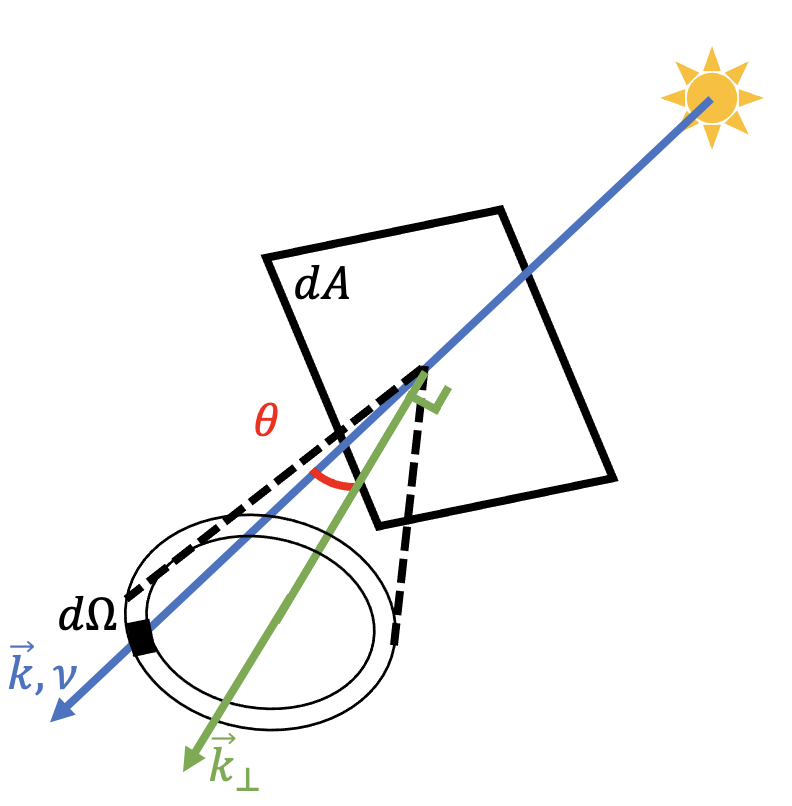
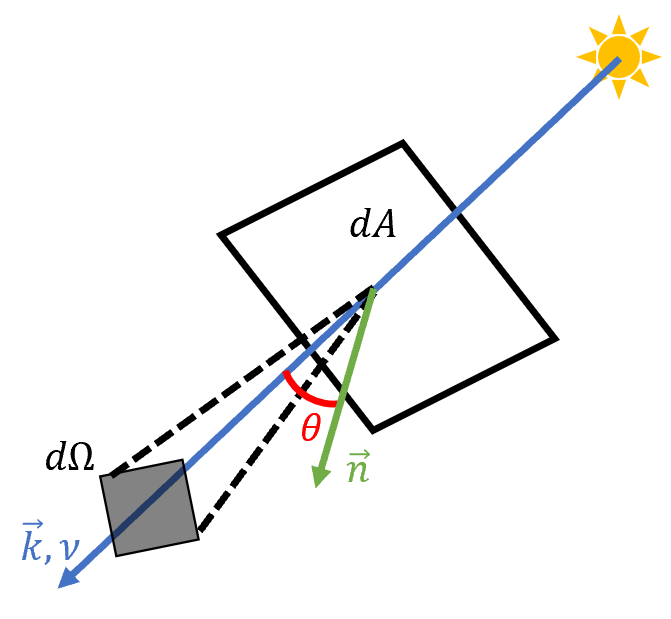
new lesson on radiation

diff --git a/assets/css/style.scss b/assets/css/style.scss
@@ -1,0 +1,9 @@
+---
+---
+
+@import "{{ site.theme }}";
+body {
+  font: 16px -apple-system, BlinkMacSystemFont, "Segoe UI", Roboto, Oxygen, Ubuntu, Cantarell, "Fira Sans", "Droid Sans", "Helvetica Neue", Arial, sans-serif, "Apple Color Emoji", "Segoe UI Emoji", "Segoe UI Symbol";
+  color:#000000;
+  font-weight:400;
+}

diff --git a/_astroA_grad/astroA_lec01.md b/_astroA_grad/astroA_lec01.md
@@ -1,72 +1,15 @@
 ---
-title: Radiation Lec 1
+title: Intensity and its 'Moments'
 layout: lesson_default
 permalink: /notes/astroA_grad/lec01/
 lessonNum: 1
+NextLesson: /notes/astroA_grad/lec02/
+LastLesson: /notes/astroA_grad/lec01/
 ---
 
 Astronomy is completely dependent on *light*. For thousands of years, human beings have looked up at the night sky and wondered about the flickering pinpricks of light. To study astronomy and learn about our universe, we need to know a lot about light. This note series is focused on light and the stuff which makes that light, providing you a basic set of physics knowledge for astronomy.
 
-The only kind of light our eyes can see is electromagnetic waves, and our eyes can only see a small subset of electromagnetic waves! Maxwell's partial differential equations for the Electric $\vec{E}$ and magnetic $\vec{B}$ fields imply these fields vary with position in space $\vec{r}$ and time $t$ depending on charge density $\rho$ and currents $\vec{j}$:
-
-$$\vec{\nabla} \cdot \vec{E}(\vec{r},t) = \frac{\rho(\vec{r},t)}{\varepsilon_0}$$
-
-$$ \vec{\nabla} \cdot \vec{B}(\vec{r},t)  = 0 $$
-
-$$\vec{\nabla} \times \vec{E}(\vec{r},t) = - \frac{\partial \vec{B}(\vec{r},t)}{\partial t}$$
-
-$$ \vec{\nabla} \times \vec{B}(\vec{r},t)  = \mu_0 \vec{j}(\vec{r},t) + \frac{1}{c^2}\frac{\partial \vec{E}(\vec{r},t)}{\partial t}$$
-
-However, space is super empty. We'll talk later about what happens in electromagnetic waves run into things like atoms and particles. For now, let's say there are no charges or currents. Then Maxwell's equations look rather symmetric
-
-$$\vec{\nabla} \cdot \vec{E}(\vec{r},t) = 0 $$
-
-$$ \vec{\nabla} \cdot \vec{B}(\vec{r},t)  = 0 $$
-
-$$\vec{\nabla} \times \vec{E}(\vec{r},t) = - \frac{\partial \vec{B}(\vec{r},t)}{\partial t}$$
-
-$$ \vec{\nabla} \times \vec{B}(\vec{r},t)  =  \frac{1}{c^2}\frac{\partial \vec{E}(\vec{r},t)}{\partial t}$$
-
-If you've taken some electromagnetism, you should know the following vector calculus identity for the Laplacian $\nabla^2 = \vec{\nabla} \cdot \vec{\nabla}$:
-
-$$ \nabla^2 \vec{A} = \vec{\nabla } \left( \vec{\nabla} \cdot \vec{A} \right) - \vec{\nabla} \times ( \vec{\nabla} \times \vec{A} ) $$
-
-Using this and taking the curl of the final two Maxwell's equations gives
-
-$$ - \nabla^2 \vec{E}(\vec{r},t) = - \frac{\partial \vec{\nabla} \times \vec{B}(\vec{r},t)}{\partial t}$$
-
-$$ -\nabla^2 \vec{B}(\vec{r},t)  =  \frac{1}{c^2}\frac{\partial \vec{\nabla} \times \vec{E}(\vec{r},t)}{\partial t}$$
-
-Reusing the final two Maxwell's equations gives
-
-$$ \nabla^2 \vec{E}(\vec{r},t) = \frac{1}{c ^2 }\frac{\partial^2  \vec{E}(\vec{r},t)}{\partial t^2 }$$
-
-$$ \nabla^2 \vec{B}(\vec{r},t)  =  \frac{1}{c^2}\frac{\partial^2  \vec{B}(\vec{r},t)}{\partial t^2}$$
-
-The electric and magnetic fields in vacuum are governed by the homogenous wave equation! In 3 dimensions, this means the fields are a bunch of *plane waves*, where they propagate along a direction $\hat{k}$ perpendicular to some plane. In the below animation from [Wikipedia](https://commons.wikimedia.org/wiki/File:EM-Wave.gif), the direction of propagation is $\hat{k} = \hat{x}$.
-
-<object data="/assets/EM-Wave.gif" type="image/gif" width="50%" >
-</object>
-
-Why are the electric and magnetic field perpendicular to each other in the above animation? It results from Maxwell's equations.
-
-However, know that we know what an electromagnetic wave is, let's make some simple defintions. We can always break a wave down into sinusoidal functions with wavevector $\vec{k}$ and angular frequency $\omega$. These are related to wavelength $\lambda$ and frequency $\nu$ by
-
-$$\vec{k} = \frac{2\pi}{\lambda} \hat{k} $$
-
-$$ \omega = 2\pi \nu $$
-
-Electromagnetism plus some quantum mechanics shows the energy contained in an electromagnetic wave is
-
-$$ E = h \nu $$
-
-and its momentum is
-
-$$ p = \frac{h \nu} {c}$$
-
-Planck's constant $h$ make an appearance considering the waves as discrete quanta of energy.
-
-In electromagnetism, there are several limiting cases for simplifying problems. Some examples are the *classical* limit (number of photons is large), the *optical* limit (observation distance $r \gg \lambda$), and the *far-field* limit $r \gg \frac{\lambda c }{u}$, where $u$ is the velocity of radiating particles). The optical limit is most useful for astronomy (note the far-field limit also implies the optical limit). The optical limit allows us to treat photons as rays, straight lines through space. Each ray of light will have a given frequency and direction.
+In electromagnetism, there are several limiting cases for simplifying problems. These cases depend on the wavelength $\lambda$ of an EM wave, the distance of the observer $r$, and the number of plane waves $N$. Some examples are the *classical* limit ($N$ large), the *optical* limit (observation distance $r \gg \lambda$), and the *far-field* limit $r \gg \frac{\lambda c }{u}$, where $u$ is the velocity of radiating particles). The optical limit is most useful for astronomy (note the far-field limit also implies the optical limit). The optical limit allows us to treat photons as rays, straight lines through space. Each ray of light will have a given frequency and direction.
 
 A detector of light will measure the energy incident $dE$ on an area $dA$, for an amount of time $dt$, from am emitting area $d\Omega$, in the form of rays with frequency in the range $(\nu, \nu + d\nu)$. These quantities define the specific intensity of a source of light:
 
@@ -76,7 +19,95 @@ The weirdest part of this definition is $d\Omega$, which is a differential of so
 
 <object data="/assets/specificIntensity.png" type="image/gif" width="50%" >
 </object>
+**Figure 1** This diagram shows a ray with wavevector $\vec{k} = \frac{2\pi}{\lambda} \hat{k}$ and frequency $\nu = \frac{\omega}{2\pi}$. The ray passes through an area element $dA$ and a solid angle element $d\Omega$. The normal to the area element is $\hat{n}$
 
 A ray intersecting the area $dA$ with angle $\theta$ with respect to the area normal is counted as part of $dE$ if its frequency is $\nu \in (\nu, \nu + d\nu)$, if it passes the area at a time $t \in (t+dt)$, and if the ray passes through the solid angle increment $d\Omega$.
 
 All these differentials can be confusing, but they allow us to learn how light interacts with a detector (on the end of a telescope, for instance) as well as how it is emitted from astronomical objects.
+
+Additionally, we can take angular 'moments' of the specific intensity to learn more about the radiation field. The word moment identifies that a value depends on the distribution of something. Moments of the specific intensity will be different for various radiation fields. Different radiation fields might be different but have some of the same moments. Therefore, taking directional moments of $I_\nu$ allows us to identify fundamental similarities and differences for various problems.
+
+The useful moments of $I_\nu$ are angular - they take the form of an integration over solid angle. For example, the $0^\mathrm{th}$ moment of specific intensity gives the *mean intensity* $J_\nu$:
+
+$$J_\nu = \frac{1}{4\pi} \oint_{4\pi} d\Omega \left[ I_\nu \right]$$
+
+The angular moments are defined with respect to an axis, just like a moment of inertia in classical mechanics. For radiation, we project the rays of light onto a unit vector normal to the area element $dA$. Using this, the $1^\mathrm{st}$ moment is the *specific flux* $\vec{F_\nu}$:
+
+$$ \vec{F_\nu} = \oint_{4\pi} d\Omega \left[ \hat{n} I_\nu  \cos \theta \right]$$
+
+where $\theta$ is the angle between the wavevector $\vec{k}$ and the normal vector $\hat{n}$. Next, the $2^\mathrm{nd}$ moment gives the radiation pressure tensor $\overline{P_\nu}$:
+
+$$ \overline{P_\nu} = \frac{1}{c}\oint_{4\pi} d\Omega \left[ \hat{n}\hat{n} I_\nu  \cos^2 \theta \right] $$
+
+While we could define some specific quantities $ \vec{H_\nu} = \frac{1}{4\pi}\vec{F_\nu}$  and $  \overline{K_\nu}= \frac{c}{4\pi}\vec{p_\nu}$  so that the definition of mean intensity as the $0^\mathrm{th}$ moment is generalizable, we prefer the Flux vector and pressure tensor because they are physically intuitive. Another physically useful quantity is the Radiative energy density $u_\nu$:
+
+$$u_\nu = \frac{4\pi}{c}J_\nu$$
+
+For an isotropic radiation field, $I_\nu$ is constant throughout solid angle. The integral covers both above an below the differential area element, so the flux vanishes:
+
+$$  \vec{F_\nu} = I_\nu \hat{n} \oint_{4\pi} d\Omega \left[   \cos \theta \right] = 0$$
+
+This result makes sense, as isotropic implies the flux through an area is equal in every direction. Overall, that means the net flux is $0$. Additionally the mean intensity is equivalent to $I_\nu$ since field is constant:
+
+$$J_\nu = \frac{I_\nu}{4\pi} \oint_{4\pi} d\Omega = I_\nu$$
+
+For the isotropic radiation field, the pressure tensor is:
+
+$$ \overline{P_\nu} = \hat{n}\hat{n} \frac{I_\nu}{c}\oint_{4\pi} d\Omega \left[   \cos^2 \theta \right] =  \hat{n}\hat{n} \frac{J_\nu}{c} 2\pi
+\int_{\pi} d\theta  \left[  \sin \theta \cos^2 \theta \right] =
+\hat{n}\hat{n} \frac{J_\nu}{c} 2\pi \frac{2}{3}
+= \hat{n}\hat{n} \frac{1}{3}  u_\nu $$
+
+Taking the trace of the pressure tensor, we get a scalar pressure:
+
+$$ P_\nu = \frac{1}{3}  u_\nu $$
+
+If we think back to thermodynamics, this result makes sense. In thermodynamics, an adiabatic gas has a relationship between energy and pressure defined by an adiabatic exponent $\gamma$:
+
+
+$$ P = \frac{1}{\gamma - 1}  u $$
+
+For radiation, we could use $\gamma = \frac{4}{3}$. That value is the same for a gas relativistic particles. Convenient, considering a radiation field is a relativistic gas whose particles have mass $m \rightarrow 0$.
+
+Also, we can also calculate the number density of photons using the energy of a photon $E = h\nu$ where $h$ is Planck's constant:
+
+$$n_\nu = \frac{u_\nu}{h\nu}$$
+
+Similarly, the photon flux is
+
+$$\Phi_\nu = \frac{F_\nu}{h\nu}$$
+
+Note that these quantities all still have a differential area element $dA$ associated with them. If we integrate over a closed area capturing all the flux of a star or astronomical object, we get that object's luminosity $L_\nu$:
+
+$$ L_\nu = \oint dA \left[ F_\nu \right] $$
+
+Still, all the above quantities only apply to a small selection of electromagntic waves, those with frequency in the interval $\left[ \nu, \nu + d\nu \right]$. Integrating over all frequencies of light, we get *bolometric* quantities. For example, the bolometric luminosity is $L$:
+
+$$L = \int d\nu \left[ L_\nu \right]$$
+
+This has units of energy per second, and the sun's bolometric luminosity is
+
+$$ L_\odot = 3.83 \cdot 10^{33} \frac{\mathrm{erg}}{\mathrm{s}} $$
+
+The reason all of these different quantities are important is for radiative transfer and observation. Additionally, the fundamental quantity of specific intensity $I_\nu$ is conserved along a ray of light. If an observer ($1$) uses a detector area $dA$ to observe a light emitting surface $2$ with differential area $dS$, then the solid angles $d\Omega$ they use to calculate $I_\nu$ will be determined by the distance $r$ between them. At the detector, the light emitting surface subtends an angle $d\Omega_A = \frac{dS}{r^2}$. At the light emitting surface, the detector subtends an angle $d\Omega_S = \frac{dA}{r^2}$. Additionally, the energy at the detector $dE_1$ and the energy emitted from the surface $dE_2$ are the same:
+
+$$ dE_2 = I_{\nu,2} dS d\Omega_S dt d\nu = I_{\nu,2} d\Omega_A r^2 \cdot \frac{dA}{r^2} dt d\nu = I_{\nu,2} d\Omega_A  dA dt d\nu = \frac{dE_1}{I_{\nu,2}}$$
+
+$$ I_{\nu,2} = I_{\nu,1}$$
+
+Therefore, the specific intensity along a ray of light is conserved. No matter how far the ray travels (large $r$), the specific intensity is the same. *Unless* the radiation interacts with gas or there is another emitting surface between the two points in space.
+
+**NOTE:** The above definitions are defined by frequency $\nu$. For the wavelength counter parts, consider the following relationship:
+
+$$ \lambda = \frac{c}{\nu}$$
+
+for light travelling in a vacuum. Therefore, we can get wavelength dependent quantities using
+
+$$I_\lambda = \frac{dE}{dt d\lambda dA d\Omega} = \frac{dE}{dt d\nu dA d\Omega} \frac{d\nu}{d\lambda} = I_\nu  \frac{d\nu}{d\lambda}
+= I_\nu \left( \frac{-c}{\lambda^2} \right) =  I_\nu \left( \frac{-\nu^2}{c} \right)$$
+
+However, to avoid negative energy densities, fluxes, and so on, we define $I_\lambda$ to be
+
+$$I_\lambda  =  I_\nu \left|  \frac{d\nu}{d\lambda} \right| =  I_\nu \frac{\nu^2}{c} $$
+
+and generally make plots logarithmic plots of specific intensity, flux, and luminosity. The negative appears in the change from $\log \nu$ to $\log \lambda$ as the independent variable. The important part with this variable change is to just be careful; make sure you do not take the logarithm of a negative number.

diff --git a/_em_grad/em_lec01.md b/_em_grad/em_lec01.md
@@ -1,0 +1,67 @@
+---
+title: Grad EM Lecture 1
+layout: lesson_default
+permalink: /notes/em_grad/lec01/
+lessonNum: 1
+---
+First lecture for electromagnetism.
+
+
+The only kind of light our eyes can see is electromagnetic waves, and our eyes can only see a small subset of electromagnetic waves! Maxwell's partial differential equations for the Electric $\vec{E}$ and magnetic $\vec{B}$ fields imply these fields vary with position in space $\vec{r}$ and time $t$ depending on charge density $\rho$ and currents $\vec{j}$:
+
+$$\vec{\nabla} \cdot \vec{E}(\vec{r},t) = \frac{\rho(\vec{r},t)}{\varepsilon_0}$$
+
+$$ \vec{\nabla} \cdot \vec{B}(\vec{r},t)  = 0 $$
+
+$$\vec{\nabla} \times \vec{E}(\vec{r},t) = - \frac{\partial \vec{B}(\vec{r},t)}{\partial t}$$
+
+$$ \vec{\nabla} \times \vec{B}(\vec{r},t)  = \mu_0 \vec{j}(\vec{r},t) + \frac{1}{c^2}\frac{\partial \vec{E}(\vec{r},t)}{\partial t}$$
+
+However, space is super empty. We'll talk later about what happens in electromagnetic waves run into things like atoms and particles. For now, let's say there are no charges or currents. Then Maxwell's equations look rather symmetric
+
+$$\vec{\nabla} \cdot \vec{E}(\vec{r},t) = 0 $$
+
+$$ \vec{\nabla} \cdot \vec{B}(\vec{r},t)  = 0 $$
+
+$$\vec{\nabla} \times \vec{E}(\vec{r},t) = - \frac{\partial \vec{B}(\vec{r},t)}{\partial t}$$
+
+$$ \vec{\nabla} \times \vec{B}(\vec{r},t)  =  \frac{1}{c^2}\frac{\partial \vec{E}(\vec{r},t)}{\partial t}$$
+
+If you've taken some electromagnetism, you should know the following vector calculus identity for the Laplacian $\nabla^2 = \vec{\nabla} \cdot \vec{\nabla}$:
+
+$$ \nabla^2 \vec{A} = \vec{\nabla } \left( \vec{\nabla} \cdot \vec{A} \right) - \vec{\nabla} \times ( \vec{\nabla} \times \vec{A} ) $$
+
+Using this and taking the curl of the final two Maxwell's equations gives
+
+$$ - \nabla^2 \vec{E}(\vec{r},t) = - \frac{\partial \vec{\nabla} \times \vec{B}(\vec{r},t)}{\partial t}$$
+
+$$ -\nabla^2 \vec{B}(\vec{r},t)  =  \frac{1}{c^2}\frac{\partial \vec{\nabla} \times \vec{E}(\vec{r},t)}{\partial t}$$
+
+Reusing the final two Maxwell's equations gives
+
+$$ \nabla^2 \vec{E}(\vec{r},t) = \frac{1}{c ^2 }\frac{\partial^2  \vec{E}(\vec{r},t)}{\partial t^2 }$$
+
+$$ \nabla^2 \vec{B}(\vec{r},t)  =  \frac{1}{c^2}\frac{\partial^2  \vec{B}(\vec{r},t)}{\partial t^2}$$
+
+The electric and magnetic fields in vacuum are governed by the homogenous wave equation! In 3 dimensions, this means the fields are a bunch of *plane waves*, where they propagate along a direction $\hat{k}$ perpendicular to some plane. In the below animation from [Wikipedia](https://commons.wikimedia.org/wiki/File:EM-Wave.gif), the direction of propagation is $\hat{k} = \hat{x}$.
+
+<object data="/assets/EM-Wave.gif" type="image/gif" width="50%" >
+</object>
+
+Why are the electric and magnetic field perpendicular to each other in the above animation? It results from Maxwell's equations.
+
+However, now that we know what an electromagnetic wave is, let's make some simple definitions. We can always break a wave down into sinusoidal functions with wavevector $\vec{k}$ and angular frequency $\omega$. These are related to wavelength $\lambda$ and frequency $\nu$ by
+
+$$\vec{k} = \frac{2\pi}{\lambda} \hat{k} $$
+
+$$ \omega = 2\pi \nu $$
+
+Electromagnetism plus some quantum mechanics shows the energy contained in an electromagnetic wave is
+
+$$ E = h \nu $$
+
+and its momentum is
+
+$$ p = \frac{h \nu} {c}$$
+
+Planck's constant $h$ make an appearance considering the waves as discrete quanta of energy.

diff --git a/notes.md b/notes.md
@@ -84,6 +84,15 @@ Here is a list of course notes for various classes I have taken.
 </ul>
 </h4>
 
+<h2> Electromagnetism </h2>
+<h4>
+<ul>
+{% for lesson in site.em_grad by lesson.lessonNum reversed %}
+   <li><a href="{{ lesson.permalink }}"> {{ lesson.title }} </a></li>
+{% endfor %}
+</ul>
+</h4>
+
 
 <h2> Quantum Mechanics </h2>
 <h4>

diff --git a/_astroA_grad/astroA_lec02.md b/_astroA_grad/astroA_lec02.md
@@ -1,0 +1,8 @@
+---
+title: Blackbody Radiation
+layout: lesson_default
+permalink: /notes/astroA_grad/lec02/
+lessonNum: 2
+NextLesson: /notes/astroA_grad/lec03/
+LastLesson: /notes/astroA_grad/lec01/
+---

diff --git a/_astroA_grad/astroA_lec03.md b/_astroA_grad/astroA_lec03.md
@@ -1,0 +1,8 @@
+---
+title: Radiative Transfer
+layout: lesson_default
+permalink: /notes/astroA_grad/lec03/
+lessonNum: 2
+NextLesson: /notes/astroA_grad/lec03/
+LastLesson: /notes/astroA_grad/lec02/
+---
